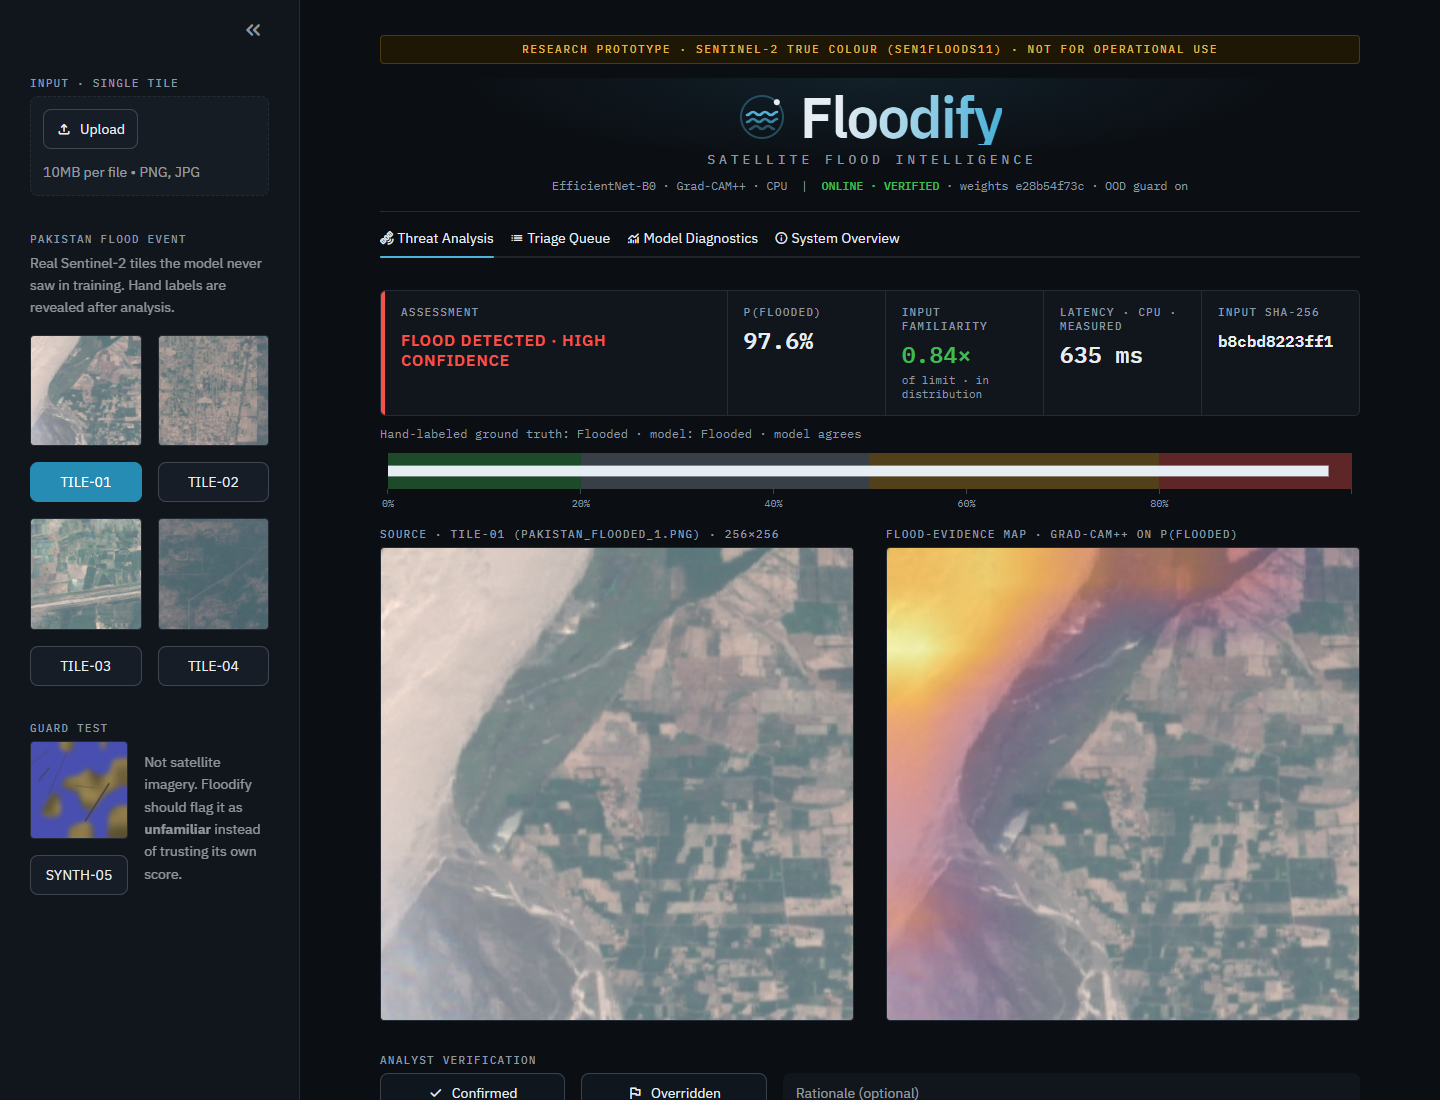
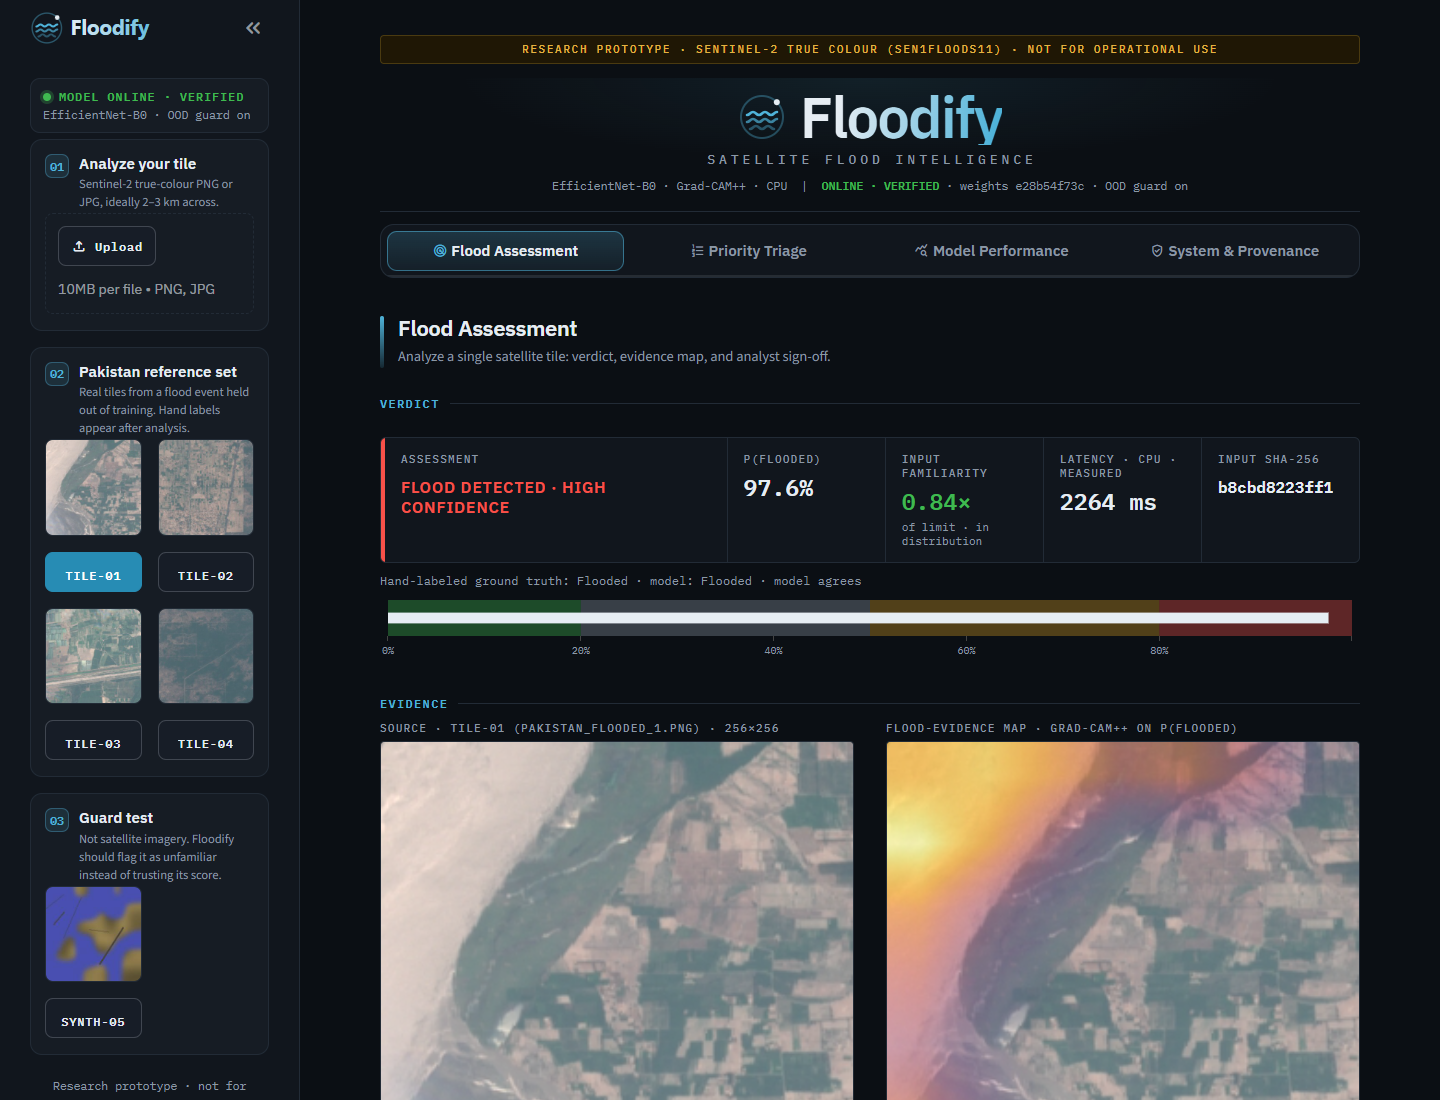
Redesign navigation and sidebar
- Tabs renamed (Flood Assessment, Priority Triage, Model Performance,
  System & Provenance) and restyled as a segmented control targeting
  Streamlit 1.63's react-aria tab DOM (old baseweb selectors matched nothing)
- Sidebar: Floodify logo via st.logo, model status card, numbered section
  cards for upload, Pakistan reference set, and guard test, plus footer links
- Page heading and Verdict / Evidence / Analyst sign-off dividers in each tab
- Removed duplicated triage uploader label; screenshots recaptured

diff --git a/app.py b/app.py
@@ -46,6 +46,10 @@ from grad_cam import explain_image, render_evidence
 # --------------------------------------------------------------------------
 
 MODEL_PATH = DEFAULT_MODEL_PATH
+ASSETS_DIR = Path("assets")
+LOGO_PATH = ASSETS_DIR / "floodify_logo.svg"
+ICON_PATH = ASSETS_DIR / "floodify_icon.svg"
+REPO_URL = "https://github.com/meeasadamin/floodify"
 IMAGES_DIR = Path("images")
 SAMPLES_DIR = Path("samples")
 METRICS_PATH = IMAGES_DIR / "final_metrics.json"
@@ -152,10 +156,44 @@ background:linear-gradient(100deg,#E6EDF3 20%,#4FB3D9 95%);-webkit-background-cl
 .app-tagline{font:500 .8rem var(--mono);letter-spacing:.32em;text-transform:uppercase;color:var(--muted);padding-left:.32em}
 .app-meta{font:.72rem var(--mono);color:var(--muted);margin-top:4px}
 .app-meta b{font-weight:600}
-.stTabs [data-baseweb="tab-list"]{gap:28px;border-bottom:1px solid var(--border)}
-.stTabs [data-baseweb="tab"]{padding:10px 0;font-size:.78rem;letter-spacing:.08em;text-transform:uppercase;color:var(--muted)}
-.stTabs [aria-selected="true"]{color:var(--text)}
-.stTabs [data-baseweb="tab-highlight"]{background:var(--accent);height:2px}
+/* Navigation: segmented control. Streamlit 1.63 tabs are react-aria (stTab / role=tablist), not baseweb. */
+[data-testid="stTabs"] [role="tablist"]{display:flex;gap:6px;padding:6px;margin:6px 0 4px;background:var(--surface);
+border:1px solid var(--border);border-radius:14px;overflow-x:auto}
+[data-testid="stTab"]{flex:1 1 0;min-width:max-content;justify-content:center;padding:11px 18px;border-radius:10px;
+color:var(--muted);transition:background .15s ease,color .15s ease,box-shadow .15s ease}
+[data-testid="stTab"] p{font:600 .92rem/1 var(--sans);letter-spacing:.01em;white-space:nowrap}
+[data-testid="stTab"]:hover{background:var(--surface2);color:var(--text)}
+[data-testid="stTab"][aria-selected="true"]{color:var(--text);
+background:linear-gradient(180deg,rgba(79,179,217,.20),rgba(79,179,217,.06));box-shadow:inset 0 0 0 1px rgba(79,179,217,.55)}
+[data-testid="stTab"][aria-selected="true"] [role="img"]{color:var(--accent)}
+[data-testid="stTabs"] .react-aria-SelectionIndicator{display:none}
+/* Page headings inside each tab */
+.page-head{display:flex;align-items:flex-start;gap:14px;margin:18px 0 6px}
+.page-head .bar{width:4px;align-self:stretch;border-radius:4px;background:linear-gradient(180deg,var(--accent),rgba(79,179,217,.15))}
+.page-title{font:700 1.35rem/1.2 var(--sans);color:var(--text);letter-spacing:-.01em}
+.page-sub{font-size:.9rem;color:var(--muted);margin-top:4px;line-height:1.5}
+.sub-head{font:600 .72rem var(--mono);letter-spacing:.14em;text-transform:uppercase;color:var(--accent);
+margin:22px 0 10px;display:flex;align-items:center;gap:10px}
+.sub-head::after{content:"";flex:1;height:1px;background:var(--border)}
+/* Sidebar */
+[data-testid="stSidebarHeader"]{padding-bottom:4px}
+[data-testid="stSidebarHeader"] img{height:2.1rem !important;max-width:none}
+[data-testid="stSidebarUserContent"]{padding-top:0}
+.sb-status{display:flex;flex-direction:column;gap:3px;padding:10px 12px;margin:2px 0 6px;border-radius:10px;
+background:var(--surface2);border:1px solid var(--border)}
+.sb-status .pill{display:inline-flex;align-items:center;gap:8px;font:600 .74rem var(--mono);letter-spacing:.08em;text-transform:uppercase}
+.sb-status .dot{width:8px;height:8px;border-radius:50%;background:currentColor;box-shadow:0 0 0 3px color-mix(in srgb,currentColor 25%,transparent)}
+.sb-status .meta{font:.72rem var(--mono);color:var(--muted)}
+[class*="st-key-sb_card"]{background:var(--surface2);border:1px solid var(--border);border-radius:12px;padding:14px 14px 16px}
+.sb-head{display:flex;gap:10px;align-items:flex-start;margin-bottom:2px}
+.sb-num{flex:none;width:24px;height:24px;border-radius:7px;display:grid;place-items:center;font:600 .72rem var(--mono);
+color:var(--accent);background:rgba(79,179,217,.12);border:1px solid rgba(79,179,217,.35)}
+.sb-title{font:600 .95rem/1.2 var(--sans);color:var(--text)}
+.sb-sub{font-size:.78rem;line-height:1.45;color:var(--muted);margin-top:3px}
+[data-testid="stSidebar"] [data-testid="stImage"] img{border-radius:8px}
+[data-testid="stSidebar"] button p{font:600 .78rem var(--mono);letter-spacing:.04em}
+.sb-foot{font:.72rem/1.6 var(--mono);color:var(--muted);text-align:center;padding:6px 0 10px}
+.sb-foot a{color:var(--accent);text-decoration:none}
 .kpi-row{display:grid;grid-template-columns:2.2fr repeat(4,1fr);gap:1px;background:var(--border);
 border:1px solid var(--border);border-radius:6px;overflow:hidden;margin:16px 0 10px}
 .kpi-row.kpi-4{grid-template-columns:repeat(4,1fr)}
@@ -326,49 +364,82 @@ def render_header(loaded: LoadedCheckpoint | None) -> None:
     )
 
 
-def select_input(enabled: bool) -> dict | None:
-    """Render the sidebar input rail and return the active image.
+def _sidebar_head(number: str, title: str, subtitle: str) -> None:
+    st.markdown(
+        f'<div class="sb-head"><span class="sb-num">{number}</span><div>'
+        f'<div class="sb-title">{title}</div><div class="sb-sub">{subtitle}</div></div></div>',
+        unsafe_allow_html=True,
+    )
+
+
+def _sidebar_status(loaded: LoadedCheckpoint | None) -> None:
+    if loaded is None:
+        pill, color, meta = "Model offline", COLOR_BAD, "See the error in the main panel"
+    elif loaded.format == "legacy" or not loaded.integrity_verified:
+        pill, color, meta = "Model online · unverified", COLOR_WARN, f"weights {loaded.sha256[:10]}"
+    else:
+        guard = "OOD guard on" if loaded.ood is not None else "OOD guard off"
+        pill, color, meta = "Model online · verified", COLOR_OK, f"EfficientNet-B0 · {guard}"
+    st.markdown(
+        f'<div class="sb-status"><span class="pill" style="color:{color}"><span class="dot"></span>{pill}</span>'
+        f'<span class="meta">{meta}</span></div>',
+        unsafe_allow_html=True,
+    )
+
+
+def select_input(loaded: LoadedCheckpoint | None) -> dict | None:
+    """Render the sidebar (logo, status, input cards) and return the active image.
 
     Phase 1 assigned the uploader's value on every rerun, so a persistent upload
     overwrote a reference-tile selection as soon as any other widget was used
     (audit #10). The upload is now adopted only when its file_id changes.
 
     Args:
-        enabled: False when no model is loaded (controls are disabled).
+        loaded: Loaded checkpoint, or None (controls are disabled).
 
     Returns:
         Dict with name, bytes, source ("upload" | "reference"), truth (class name
         or None), or None if nothing is selected.
     """
+    enabled = loaded is not None
+    st.logo(str(LOGO_PATH), size="large", icon_image=str(ICON_PATH), link=REPO_URL)
     with st.sidebar:
-        st.markdown('<div class="kpi-label">Input · single tile</div>', unsafe_allow_html=True)
-        uploaded = st.file_uploader(
-            "Upload satellite tile", type=UPLOAD_TYPES, label_visibility="collapsed",
-            key="single_upload", disabled=not enabled,
+        _sidebar_status(loaded)
+
+        with st.container(key="sb_card_upload"):
+            _sidebar_head("01", "Analyze your tile", "Sentinel-2 true-colour PNG or JPG, ideally 2–3 km across.")
+            uploaded = st.file_uploader(
+                "Upload satellite tile", type=UPLOAD_TYPES, label_visibility="collapsed",
+                key="single_upload", disabled=not enabled,
+            )
+            if uploaded is not None and uploaded.file_id != st.session_state.get("adopted_upload_id"):
+                st.session_state.adopted_upload_id = uploaded.file_id
+                st.session_state.active = {
+                    "name": uploaded.name, "bytes": uploaded.getvalue(), "source": "upload", "truth": None,
+                }
+
+        with st.container(key="sb_card_reference"):
+            _sidebar_head("02", "Pakistan reference set",
+                          "Real tiles from a flood event held out of training. Hand labels appear after analysis.")
+            cols = st.columns(2)
+            for i, tile in enumerate(t for t in SAMPLE_TILES if t["truth"] is not None):
+                with cols[i % 2]:
+                    _reference_tile(tile, enabled)
+
+        with st.container(key="sb_card_guard"):
+            _sidebar_head("03", "Guard test",
+                          "Not satellite imagery. Floodify should flag it as unfamiliar instead of trusting its score.")
+            for tile in (t for t in SAMPLE_TILES if t["truth"] is None):
+                thumb_col, _ = st.columns([1, 1])
+                with thumb_col:
+                    _reference_tile(tile, enabled)
+
+        st.markdown(
+            f'<div class="sb-foot">Research prototype · not for operational use<br>'
+            f'<a href="{REPO_URL}" target="_blank">GitHub</a> · '
+            f'<a href="https://github.com/cloudtostreet/Sen1Floods11" target="_blank">Sen1Floods11</a></div>',
+            unsafe_allow_html=True,
         )
-        if uploaded is not None and uploaded.file_id != st.session_state.get("adopted_upload_id"):
-            st.session_state.adopted_upload_id = uploaded.file_id
-            st.session_state.active = {
-                "name": uploaded.name, "bytes": uploaded.getvalue(), "source": "upload", "truth": None,
-            }
-
-        real_tiles = [t for t in SAMPLE_TILES if t["truth"] is not None]
-        guard_tiles = [t for t in SAMPLE_TILES if t["truth"] is None]
-
-        st.markdown('<div class="kpi-label" style="margin-top:1.2rem">Pakistan flood event</div>', unsafe_allow_html=True)
-        st.caption("Real Sentinel-2 tiles the model never saw in training. Hand labels are revealed after analysis.")
-        cols = st.columns(2)
-        for i, tile in enumerate(real_tiles):
-            with cols[i % 2]:
-                _reference_tile(tile, enabled)
-
-        st.markdown('<div class="kpi-label" style="margin-top:1.2rem">Guard test</div>', unsafe_allow_html=True)
-        for tile in guard_tiles:
-            thumb_col, text_col = st.columns([1, 1.25], vertical_alignment="center")
-            with thumb_col:
-                _reference_tile(tile, enabled)
-            text_col.caption("Not satellite imagery. Floodify should flag it as **unfamiliar** instead of trusting "
-                             "its own score.")
     return st.session_state.get("active")
 
 
@@ -459,7 +530,7 @@ def render_analyst_review(r: dict, name: str) -> None:
     """Human-in-the-loop confirm / override log, keyed by input SHA-256."""
     log = st.session_state.setdefault("review_log", {})
     key = r["sha256"]
-    st.markdown('<div class="panel-label" style="margin-top:1rem">Analyst verification</div>', unsafe_allow_html=True)
+    sub_head("Analyst sign-off")
     c1, c2, c3 = st.columns([1, 1, 3])
     note = c3.text_input(
         "Rationale", key=f"note_{key}", placeholder="Rationale (optional)", label_visibility="collapsed"
@@ -543,6 +614,20 @@ def render_evidence_download(r: dict, name: str, loaded: LoadedCheckpoint) -> No
     )
 
 
+def page_head(title: str, subtitle: str) -> None:
+    """Title block at the top of each tab."""
+    st.markdown(
+        f'<div class="page-head"><span class="bar"></span><div><div class="page-title">{title}</div>'
+        f'<div class="page-sub">{subtitle}</div></div></div>',
+        unsafe_allow_html=True,
+    )
+
+
+def sub_head(text: str) -> None:
+    """Section divider inside a tab."""
+    st.markdown(f'<div class="sub-head">{text}</div>', unsafe_allow_html=True)
+
+
 def render_threat_analysis_tab(loaded: LoadedCheckpoint, active: dict | None) -> None:
     """Render Tab 1: verdict first, then evidence, then review and export.
 
@@ -550,6 +635,7 @@ def render_threat_analysis_tab(loaded: LoadedCheckpoint, active: dict | None) ->
         loaded: Verified checkpoint.
         active: Output of `select_input`.
     """
+    page_head("Flood Assessment", "Analyze a single satellite tile: verdict, evidence map, and analyst sign-off.")
     if active is None:
         st.info("Select a reference tile or upload imagery from the sidebar.", icon=":material/satellite_alt:")
         return
@@ -563,6 +649,7 @@ def render_threat_analysis_tab(loaded: LoadedCheckpoint, active: dict | None) ->
         )
         return
 
+    sub_head("Verdict")
     render_kpi_strip(r)
     if active["truth"] is not None:
         predicted = CLASS_NAMES[r["pred_class"]]
@@ -574,6 +661,7 @@ def render_threat_analysis_tab(loaded: LoadedCheckpoint, active: dict | None) ->
         )
     st.plotly_chart(render_risk_bar(r["flood_prob"] * 100), width="stretch", config={"displayModeBar": False})
 
+    sub_head("Evidence")
     width, height = r["native_size"]
     left, right = st.columns(2, gap="medium")
     left.markdown(
@@ -591,9 +679,11 @@ def render_threat_analysis_tab(loaded: LoadedCheckpoint, active: dict | None) ->
 
 def render_batch_triage_tab(loaded: LoadedCheckpoint) -> None:
     """Rank many tiles by flood probability so analysts review the riskiest first."""
+    page_head("Priority Triage", f"Drop up to {MAX_BATCH_TILES} tiles; Floodify ranks them so the likeliest floods are "
+              "reviewed first.")
     files = st.file_uploader(
         f"Drop up to {MAX_BATCH_TILES} tiles for ranked triage",
-        type=UPLOAD_TYPES, accept_multiple_files=True, key="batch_upload",
+        type=UPLOAD_TYPES, accept_multiple_files=True, key="batch_upload", label_visibility="collapsed",
     )
     if not files:
         st.caption(
@@ -686,6 +776,8 @@ def _kpi(label: str, value: str, sub: str = "") -> str:
 
 def render_model_diagnostics_tab() -> None:
     """Render Tab 3: test-set metrics with intervals, OOD calibration, curves (audit #16 consumer)."""
+    page_head("Model Performance", "How Floodify performs on a flood event it never saw, and how the input guard is "
+              "calibrated.")
     metrics, problem = load_json(METRICS_PATH)
 
     if metrics is None:
@@ -798,6 +890,7 @@ def _card(heading: str, body_html: str) -> None:
 
 def render_system_overview_tab(loaded: LoadedCheckpoint | None) -> None:
     """Render Tab 4: data, architecture, explainability, limitations, provenance, stack."""
+    page_head("System & Provenance", "Training data, method, limitations, and a verifiable record of the model in use.")
     summary, _ = load_json(DATASET_SUMMARY_PATH)
     if summary:
         counts = summary["counts"]
@@ -832,7 +925,7 @@ def render_system_overview_tab(loaded: LoadedCheckpoint | None) -> None:
         f"Every input's {OOD_FEATURE_LAYER} are compared with the training tiles: the score is one minus the mean "
         "cosine similarity to the 10 most similar training tiles. The threshold is the 99th percentile of "
         "validation scores, so about 1% of genuine validation tiles are flagged; tiles from an unseen region are "
-        "flagged more often (see Model Diagnostics). Flagged inputs keep their score for reference but are labeled "
+        "flagged more often (see Model Performance). Flagged inputs keep their score for reference but are labeled "
         "unreliable and must not be triaged on it. The check catches clearly different imagery (photos, documents, "
         "synthetic renders); it is not a guarantee against subtle shifts. A Gaussian Mahalanobis score was evaluated "
         "first and rejected: it could not separate synthetic inputs from real tiles.",
@@ -906,14 +999,14 @@ def main() -> None:
         load_error = f"Checkpoint failed to load — {type(exc).__name__}: {exc}"
 
     render_header(loaded)
-    active = select_input(enabled=loaded is not None)
+    active = select_input(loaded)
 
     tab_threat, tab_triage, tab_diag, tab_overview = st.tabs(
         [
-            ":material/satellite_alt: Threat Analysis",
-            ":material/list: Triage Queue",
-            ":material/monitoring: Model Diagnostics",
-            ":material/info: System Overview",
+            ":material/radar: Flood Assessment",
+            ":material/format_list_numbered: Priority Triage",
+            ":material/query_stats: Model Performance",
+            ":material/verified_user: System & Provenance",
         ]
     )
     with tab_threat:

diff --git a/tools/capture_screenshots.py b/tools/capture_screenshots.py
@@ -61,7 +61,7 @@ def main() -> int:
         settle(page)
         shoot(page, out_dir, "02_ood_guard")
 
-        page.get_by_role("tab", name="Triage Queue").click()
+        page.get_by_role("tab", name="Priority Triage").click()
         tiles = sorted((ROOT / "samples").glob("*.*"))
         page.locator('[data-testid="stFileUploaderDropzoneInput"]').last.set_input_files([str(t) for t in tiles])
         expect(page.locator('[data-testid="stProgress"]')).to_have_count(0, timeout=TIMEOUT_MS)
@@ -70,12 +70,12 @@ def main() -> int:
         settle(page)
         shoot(page, out_dir, "03_triage_queue")
 
-        page.get_by_role("tab", name="Model Diagnostics").click()
+        page.get_by_role("tab", name="Model Performance").click()
         expect(page.get_by_text("Balanced accuracy").first).to_be_visible(timeout=TIMEOUT_MS)
         settle(page)
         shoot(page, out_dir, "04_model_diagnostics")
 
-        page.get_by_role("tab", name="System Overview").click()
+        page.get_by_role("tab", name="System & Provenance").click()
         expect(page.get_by_text("Checkpoint provenance").first).to_be_visible(timeout=TIMEOUT_MS)
         settle(page)
         shoot(page, out_dir, "05_system_overview")

diff --git a/grad_cam.py b/grad_cam.py
@@ -16,7 +16,7 @@ Design decisions (audit #7):
     * The CAM is upsampled to the source image's own size, so the overlay keeps
       the native aspect ratio instead of a squashed 224 x 224 copy.
 
-Method caveats (surfaced in the dashboard's System Overview):
+Method caveats (surfaced in the dashboard's System & Provenance tab):
     * Grad-CAM++'s closed-form weights assume a piecewise-linear (ReLU) network;
       EfficientNet uses SiLU, so the weights are an approximation.
     * The target layer (features[-1]) is 7 x 7, so each cell covers ~32 px.

diff --git a/README.md b/README.md
@@ -86,12 +86,12 @@ The Gaussian scores failed because synthetic images land *near* the training fea
 
 ## Dashboard
 
-- **Threat Analysis:** verdict-first KPI strip (assessment, P(flooded), input familiarity, measured latency, input SHA-256), risk bar, source image and Grad-CAM++ evidence map at native aspect ratio, analyst confirm/override log, evidence-package ZIP export.
-- **Triage Queue:** rank up to 50 tiles by flood probability, with the familiarity check per tile.
-- **Model Diagnostics:** Pakistan test metrics with confidence intervals, confusion matrix, per-class table, guard calibration, and training curves.
-- **System Overview:** data rule, architecture, explainability, guard, known limitations, and live checkpoint provenance.
+- **Flood Assessment:** verdict-first KPI strip (assessment, P(flooded), input familiarity, measured latency, input SHA-256), risk bar, source image and Grad-CAM++ evidence map at native aspect ratio, analyst confirm/override log, evidence-package ZIP export.
+- **Priority Triage:** rank up to 50 tiles by flood probability, with the familiarity check per tile.
+- **Model Performance:** Pakistan test metrics with confidence intervals, confusion matrix, per-class table, guard calibration, and training curves.
+- **System & Provenance:** data rule, architecture, explainability, guard, known limitations, and live checkpoint provenance.
 
-| Triage queue | Model diagnostics |
+| Priority triage | Model performance |
 |---|---|
 | ![Triage](docs/screenshots/03_triage_queue.png) | ![Diagnostics](docs/screenshots/04_model_diagnostics.png) |
 
